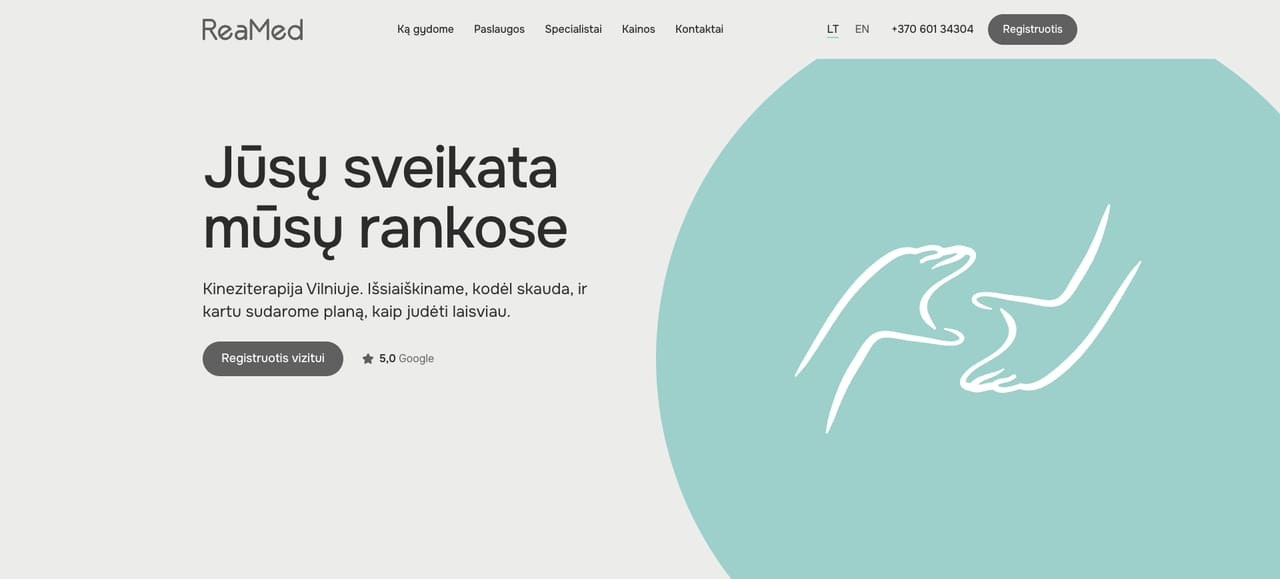
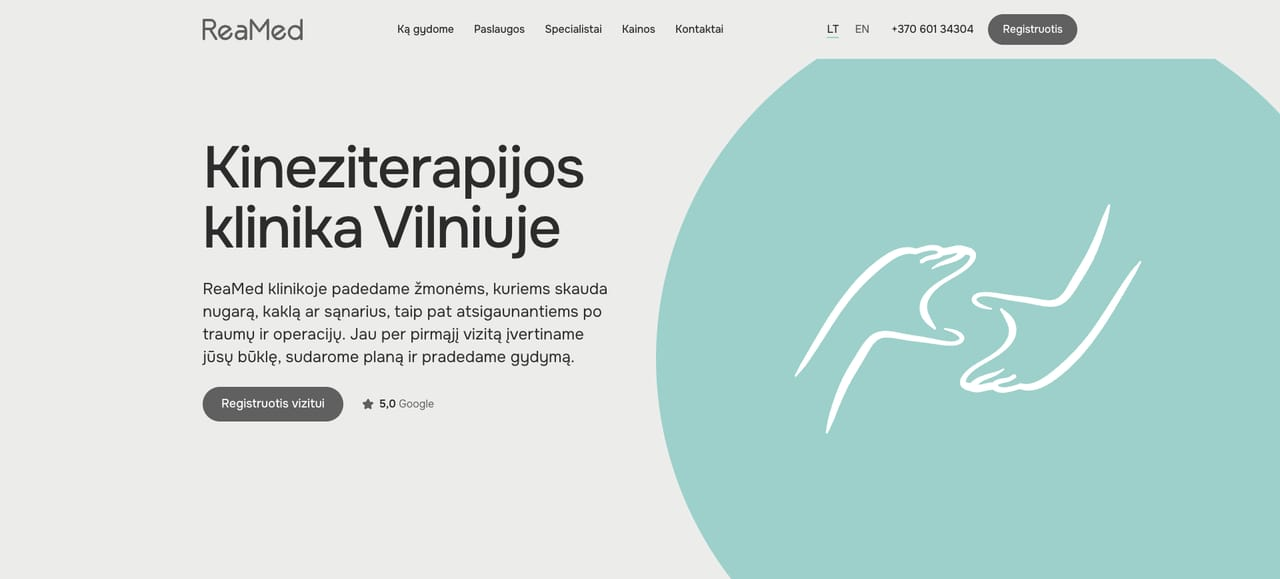
Hero: new title and lead
"Kineziterapijos klinika Vilniuje" / "Physiotherapy clinic in Vilnius"
and the new lead, verbatim. The regular h1 scale keeps the title within
two lines from 320px up, so no hero-only size was needed. README of
mockup G updated; hero screenshots refreshed.

Changed region(s): [[0.1562, 0.2487, 0.4688, 0.7461]]

diff --git a/src/lib/translations.ts b/src/lib/translations.ts
@@ -1,7 +1,7 @@
 export type Language = "lt" | "en";
 
 // Home page and shared blocks (header, footer).
-// Lithuanian copy is verbatim from docs/design/redesign-g/index.html; the hero lead was changed later by Piotr.
+// Lithuanian copy is verbatim from docs/design/redesign-g/index.html; the hero title and lead were changed later by Piotr.
 // Reviews are referenced by id from src/data/reviews.ts and shown in their original language.
 
 export const translations = {
@@ -23,8 +23,8 @@ export const translations = {
       language: "Kalba",
     },
     hero: {
-      title: "Jūsų sveikata mūsų rankose",
-      lead: "Kineziterapija Vilniuje. Išsiaiškiname, kodėl skauda, ir kartu sudarome planą, kaip judėti laisviau.",
+      title: "Kineziterapijos klinika Vilniuje",
+      lead: "ReaMed klinikoje padedame žmonėms, kuriems skauda nugarą, kaklą ar sąnarius, taip pat atsigaunantiems po traumų ir operacijų. Jau per pirmąjį vizitą įvertiname jūsų būklę, sudarome planą ir pradedame gydymą.",
       cta: "Registruotis vizitui",
     },
     areas: {
@@ -179,8 +179,8 @@ export const translations = {
       language: "Language",
     },
     hero: {
-      title: "Your health in our hands",
-      lead: "Physiotherapy in Vilnius. We find out why it hurts and work out a plan with you to move more freely.",
+      title: "Physiotherapy clinic in Vilnius",
+      lead: "At ReaMed we help people with back, neck or joint pain, and people recovering after injuries and surgery. Already at the first visit we assess your condition, make a plan and start treatment.",
       cta: "Book a visit",
     },
     areas: {

diff --git a/docs/design/redesign-g/README.md b/docs/design/redesign-g/README.md
@@ -84,8 +84,10 @@
    - переключатель LT/EN сохранить, мобильное меню сохранить;
    - тёмную верхнюю полосу с часами убрать: часы есть в блоке записи.
 2. **Первый экран** (изменён после утверждения макета, `index.html` его не показывает):
-   - h1 «Jūsų sveikata mūsų rankose»;
-   - lead «Kineziterapija Vilniuje. Išsiaiškiname, kodėl skauda, ir kartu sudarome planą, kaip judėti laisviau.»;
+   - h1 «Kineziterapijos klinika Vilniuje» (EN «Physiotherapy clinic in Vilnius»), не больше двух строк на любой ширине,
+     на узких «Kineziterapijos / klinika Vilniuje»; размер — обычный h1 из шкалы (на телефоне `h1-m`), с ним помещается от 320 px;
+   - lead «ReaMed klinikoje padedame žmonėms, kuriems skauda nugarą, kaklą ar sąnarius, taip pat atsigaunantiems po traumų
+     ir operacijų. Jau per pirmąjį vizitą įvertiname jūsų būklę, sudarome planą ir pradedame gydymą.»;
    - строки цены нет: цена — в «Pirmasis vizitas»;
    - кнопка «Registruotis vizitui» и ссылка «★ 5,0 Google» (оценка из `GOOGLE_REVIEWS.rating`, ссылка на `GOOGLE_REVIEWS.url`);
    - сплошной мятный круг (mint) без фото, внутри белые руки из логотипа (`public/brand/reamed-hands-white.svg`,
